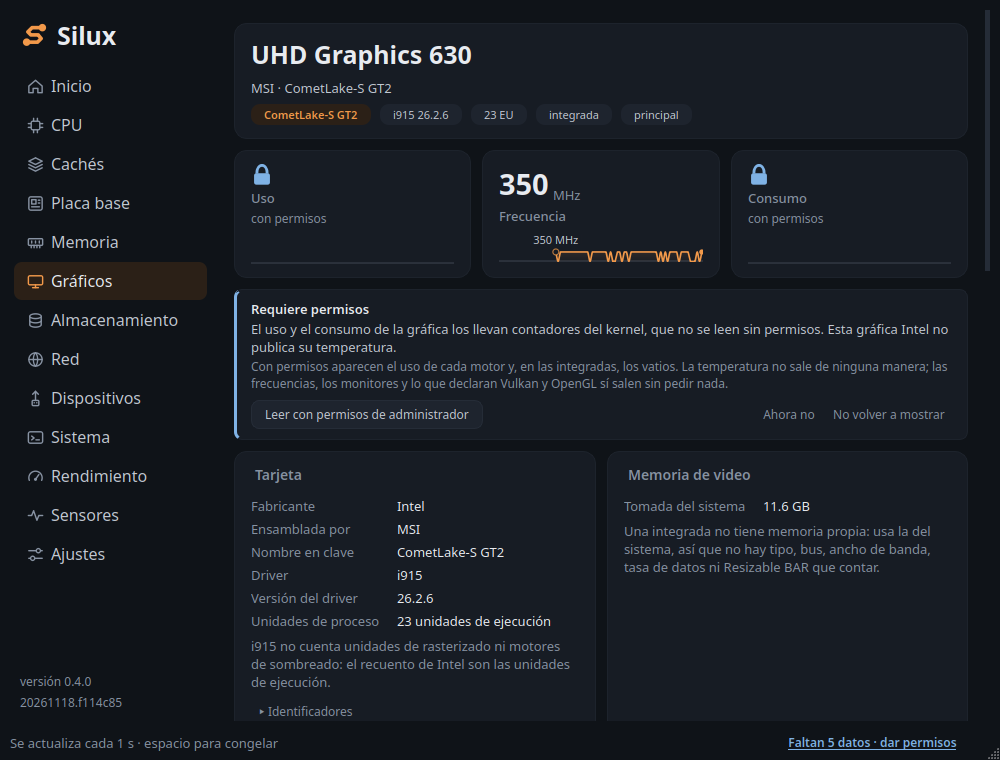
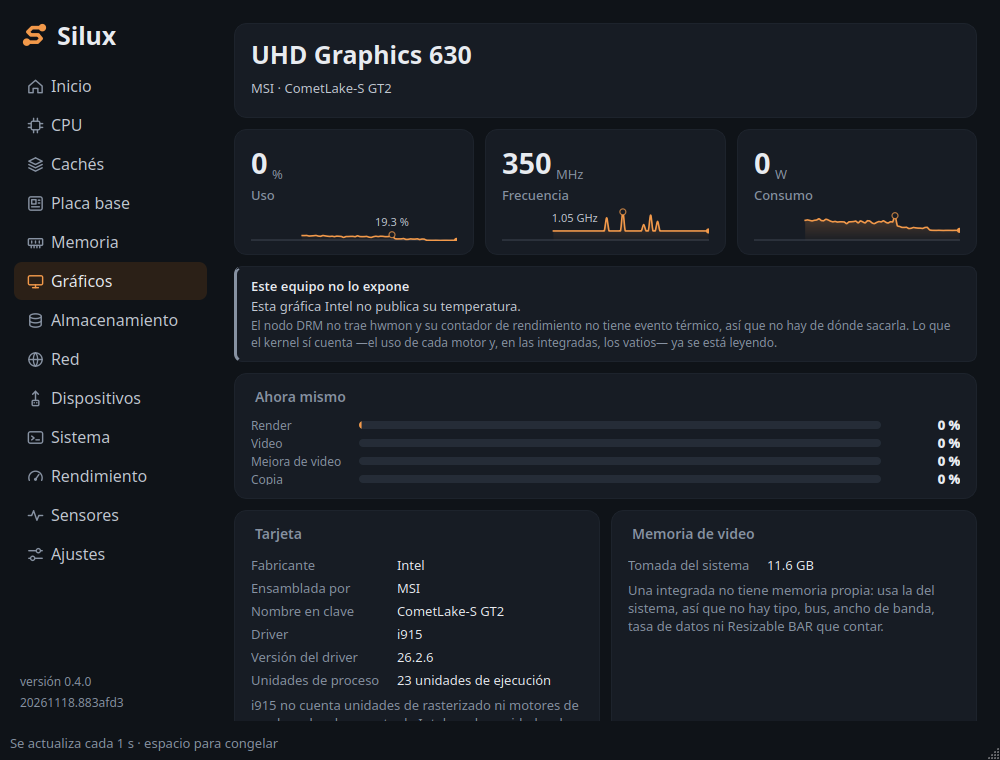
docs(readme): las capturas de la 0.4.0, con permisos
Las ocho capturas del README, rehechas con permisos de verdad (el autor
metió la contraseña), en el i5-10400 de la oficina, a 1000×760, en
oscuro, con --anonimo y un minuto de gráficas a 1 s. Un solo proceso y
un solo ayudante por tanda, con una ventana como la de --screenshot.

Se ven el SPD de los dos módulos y «Funcionando a 2666 MT/s» en
Memoria, PL1 y PL2 en CPU, la temperatura del Kioxia en Almacenamiento,
y en Gráficos el uso y el consumo de la UHD con las barras de motores
nuevas. Seis son de 3952a38 y Memoria y Gráficos de 0747084, con el árbol
limpio: lo dice la barra lateral de cada una. Memoria se capturó con la
página abierta desde el principio: abierta después, con permisos, salía
con los campos montados unos encima de otros (pendiente de ver en una
ventana real). El README ya no dice que van sin permisos.
tools/comprobar_privacidad.py no encuentra nada.

diff --git a/README.md b/README.md
@@ -29,8 +29,8 @@ Escrito con ayuda de Claude.
   <img src="capturas/almacenamiento.png" width="49%" alt="Almacenamiento">
 </p>
 
-Son de un i5-10400 con su gráfica integrada, sin permisos: lo que los pide
-sale con un candado, que es lo que se ve al abrirlo por primera vez.
+Son de un i5-10400 con su gráfica integrada, con permisos concedidos: sin
+ellos, lo que los pide sale con un candado, y se piden desde la propia página.
 
 Están tomadas con `--anonimo`, que cambia el nombre del equipo, las
 direcciones y los números de serie por otros de la misma pinta. Cada PNG lleva
